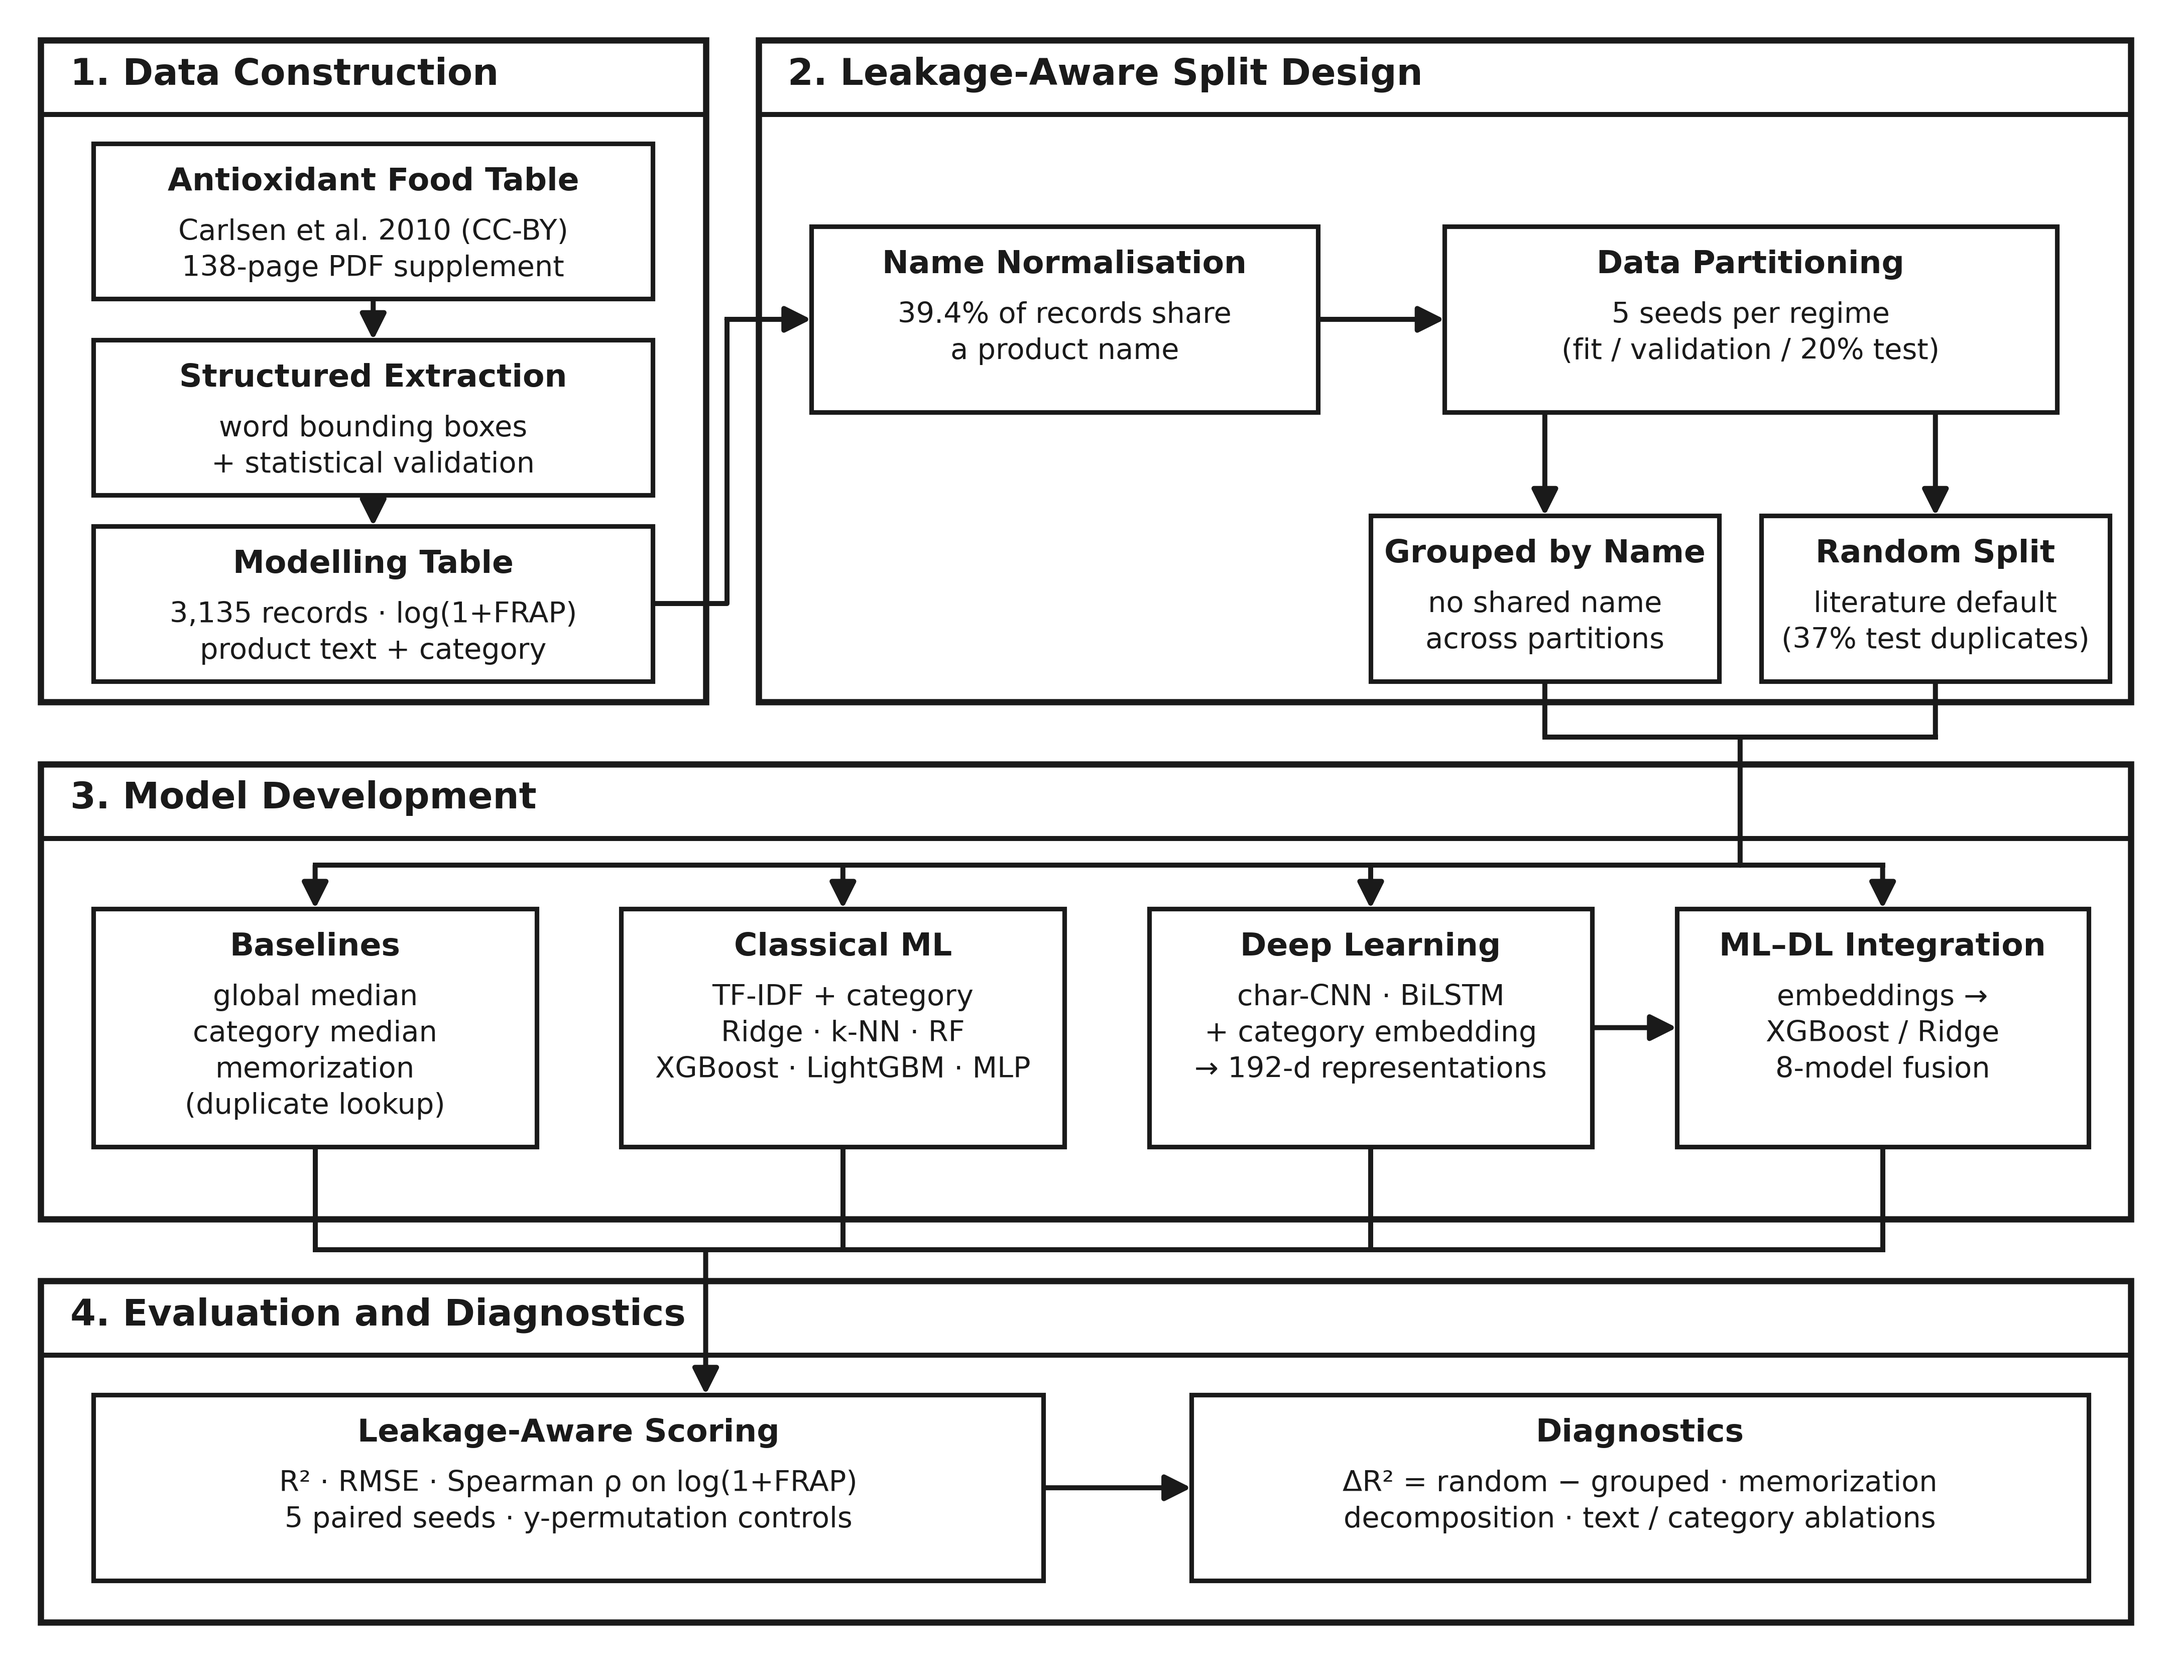
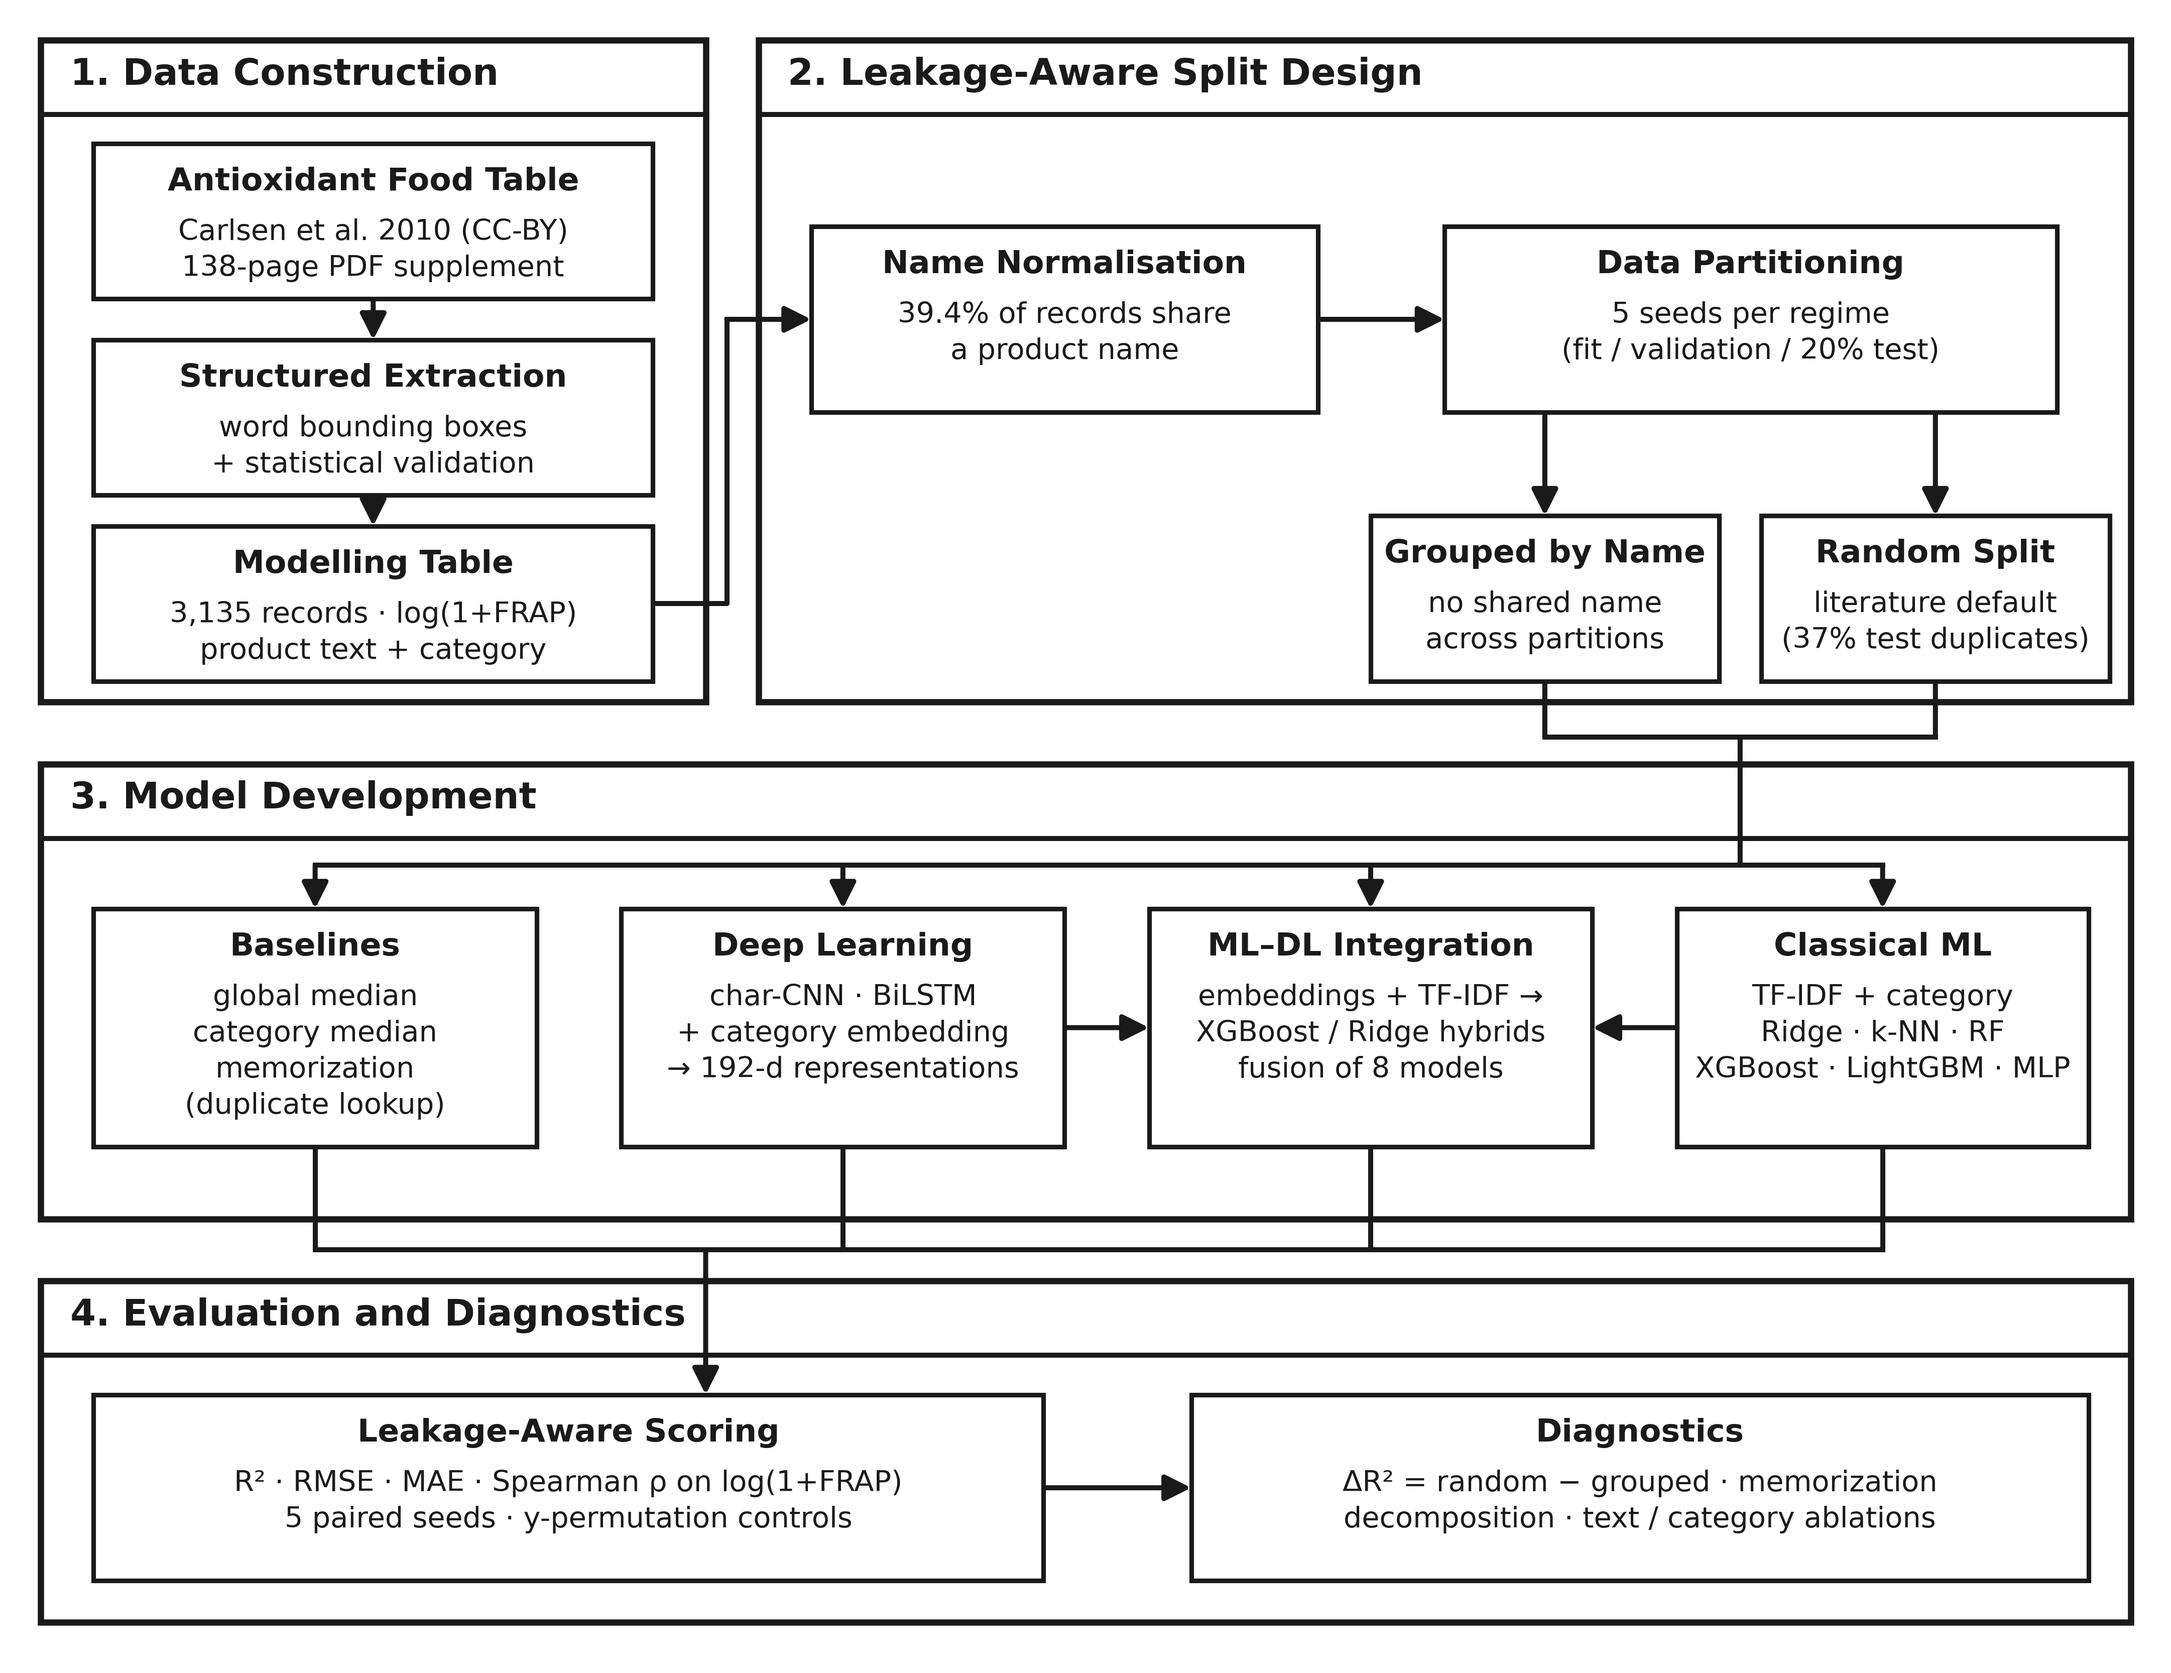
Flowchart: dual in-edges to Integration verified by adversarial audit (LOGIC_CLEAN); add MAE to scoring box, clarify hybrid inputs

diff --git a/code/make_flow_diagram.py b/code/make_flow_diagram.py
@@ -93,15 +93,19 @@ route([(90.25, 59.5), (90.25, 54.5)])
 
 # ============ 3. Model development ==============================================
 panel(0.5, 20.5, 99, 22, "3. Model Development")
+# integration sits BETWEEN its two input families: deep learning supplies the
+# embeddings (left arrow), classical ML supplies fusion-member predictions
+# (right arrow) -- both in-edges drawn, no crossings
 box(3, 24, 21, 11.5, "Baselines",
     "global median\ncategory median\nmemorization\n(duplicate lookup)")
-box(28, 24, 21, 11.5, "Classical ML",
-    "TF-IDF + category\nRidge · k-NN · RF\nXGBoost · LightGBM · MLP")
-box(53, 24, 21, 11.5, "Deep Learning",
+box(28, 24, 21, 11.5, "Deep Learning",
     "char-CNN · BiLSTM\n+ category embedding\n→ 192-d representations")
-box(78, 24, 19.5, 11.5, "ML–DL Integration",
-    "embeddings →\nXGBoost / Ridge\n8-model fusion")
-route([(74, 29.75), (78, 29.75)])
+box(53, 24, 21, 11.5, "ML–DL Integration",
+    "embeddings + TF-IDF →\nXGBoost / Ridge hybrids\nfusion of 8 models")
+box(78, 24, 19.5, 11.5, "Classical ML",
+    "TF-IDF + category\nRidge · k-NN · RF\nXGBoost · LightGBM · MLP")
+route([(49, 29.75), (53, 29.75)])
+route([(78, 29.75), (74, 29.75)])
 # both regime datasets feed model development: short drops merge on a rail in
 # the inter-panel gap, then one trunk enters the distribution rail
 route([(71.75, 46.5), (71.75, 43.8)], head=False)
@@ -115,7 +119,7 @@ for xc in (13.5, 38.5, 63.5, 87.75):
 # ============ 4. Evaluation and diagnostics =====================================
 panel(0.5, 1, 99, 16.5, "4. Evaluation and Diagnostics")
 box(3, 3, 45, 9, "Leakage-Aware Scoring",
-    "R² · RMSE · Spearman ρ on log(1+FRAP)\n"
+    "R² · RMSE · MAE · Spearman ρ on log(1+FRAP)\n"
     "5 paired seeds · y-permutation controls")
 box(55, 3, 42.5, 9, "Diagnostics",
     "ΔR² = random − grouped · memorization\n"
